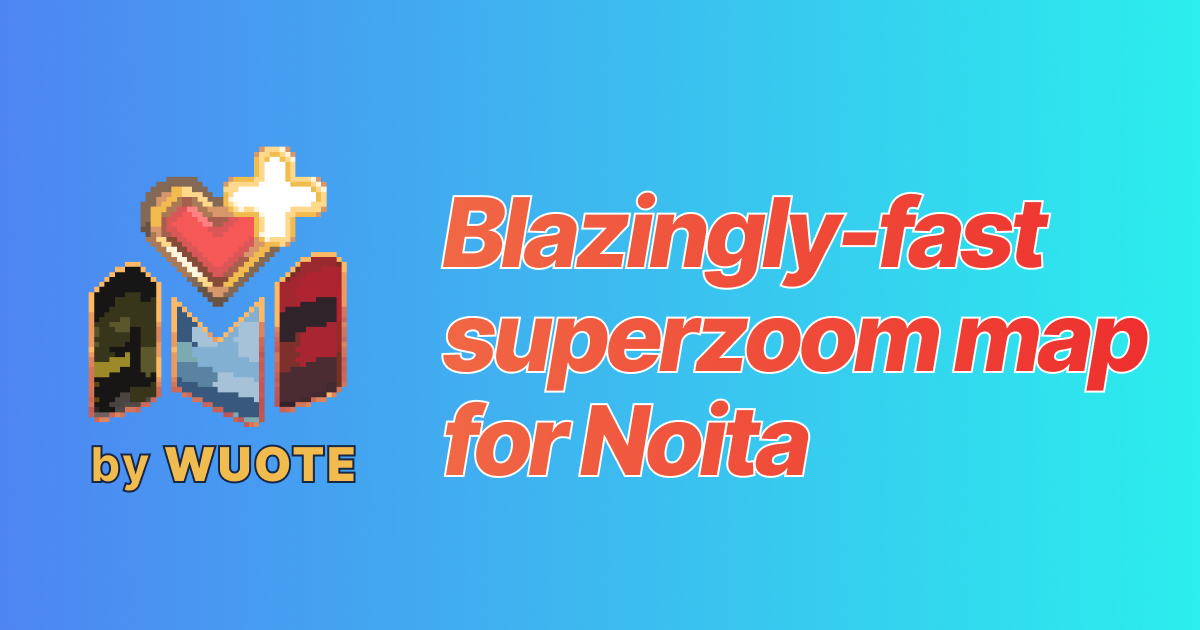
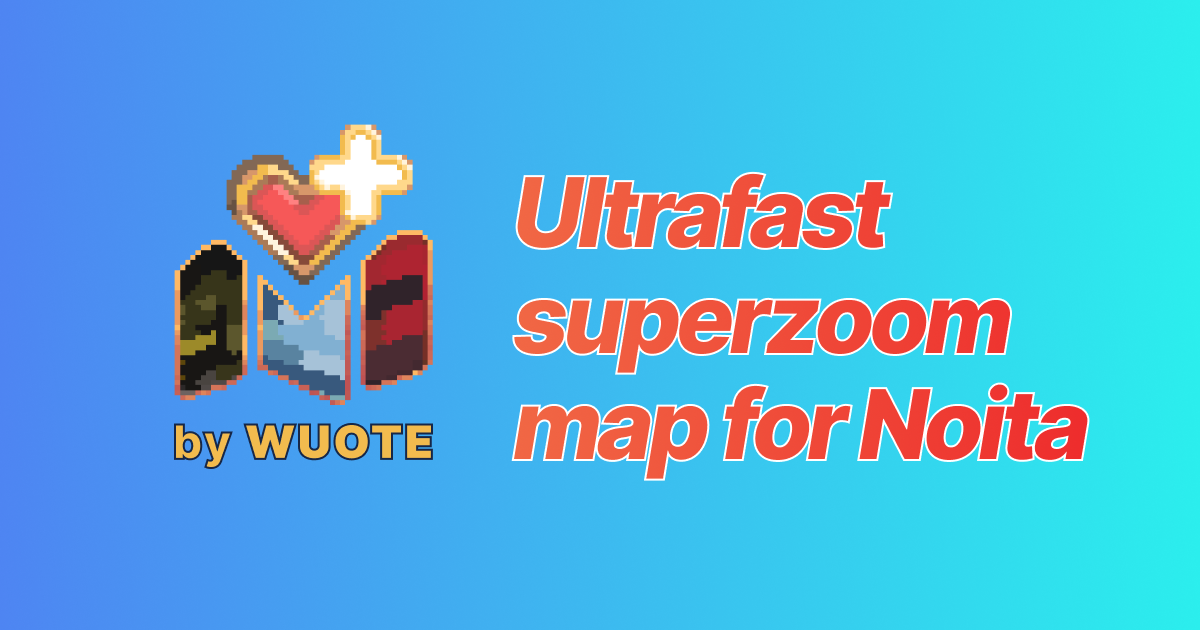
Update opengraph image

Changed region(s): [[0.0617, 0.181, 0.9558, 0.7841]]

diff --git a/README.md b/README.md
@@ -1,6 +1,6 @@
 # ![NoitamapLogo](https://github.com/acidflow-noita/noitamap/assets/106106310/8d744876-be6f-479c-8bed-09257a07a08a) Noitamap — [map.runfast.stream](https://map.runfast.stream)
 
-Blazingly-_fast_ superzoom map for Noita
+_Ultrafast_ Superzoom Map for Noita
 
 ![Map demo](https://github.com/acidflow-noita/noitamap/assets/106106310/94e0fb7e-4e0f-4419-9c14-38cace15efee)
 
